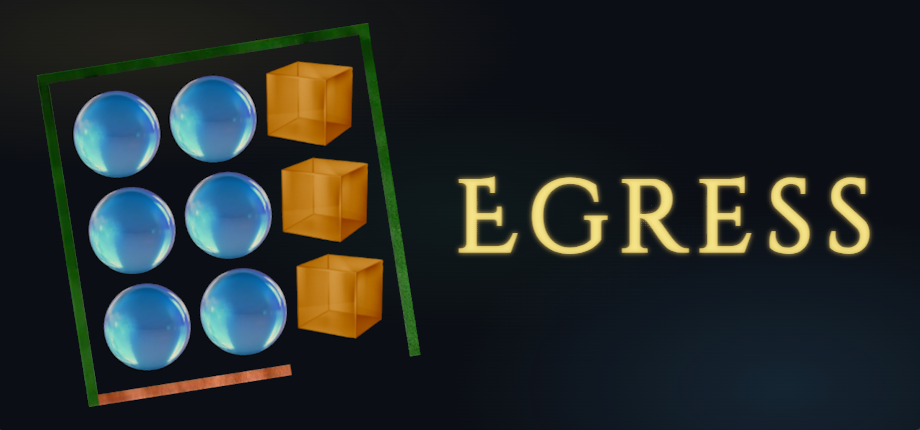
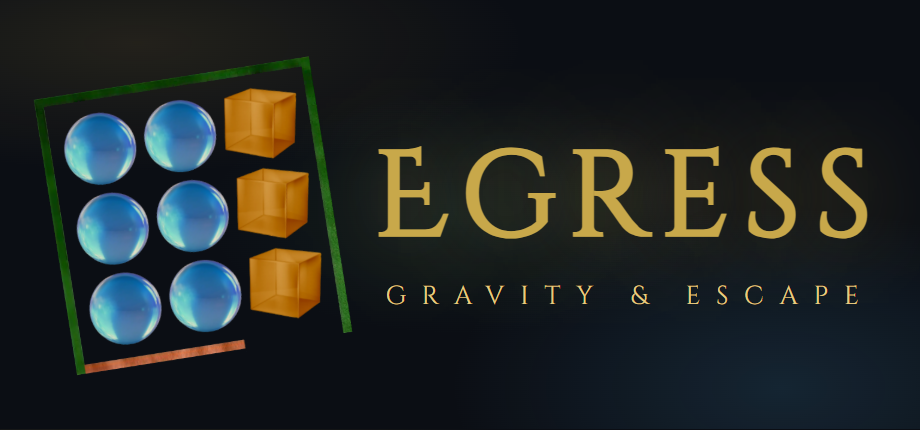
.

diff --git a/src/Egress/Steam/Library Logo.svelte b/src/Egress/Steam/Library Logo.svelte
@@ -2,8 +2,8 @@
 	import Logo from '$lib/images/Egress/Logo.png';
 </script>
 
-<div class="header-capsule">
-	<img src={Logo} alt="Logo" width={100} />
+<div class="main-capsule">
+	<img src={Logo} alt="Logo" width={150} />
 	<div class="text">
 		<div class="title">Egress</div>
 		<div class="subtitle">GRAVITY &amp; ESCAPE</div>
@@ -11,13 +11,13 @@
 </div>
 
 <style>
-	.header-capsule {
+	.main-capsule {
 		display: grid;
 		grid-auto-flow: column;
         place-content: center;
 		gap: 40px;
-        width: 462px;
-        height: 174px;
+        width: 640px;
+        height: 360px;
         box-sizing: border-box;
         /* border: 1px dotted gray; */
 	}
@@ -31,7 +31,7 @@
 	.title {
 		font-family: CD;
 		font-weight: 700;
-		font-size: 60px;
+		font-size: 90px;
 		color: var(--gold);
 		letter-spacing: 0.12em;
 		text-shadow:
@@ -41,8 +41,8 @@
 
 	.subtitle {
 		font-family: Cinzel;
-		font-size: 13px;
-		letter-spacing: 0.6em;
+		font-size: 20px;
+		letter-spacing: 0.55em;
 		color: var(--gold-lt);
 	}
 </style>

diff --git a/src/Egress/Steam/Small Capsule.svelte b/src/Egress/Steam/Small Capsule.svelte
@@ -1,0 +1,55 @@
+<script>
+	import Logo from '$lib/images/Egress/Logo.png';
+</script>
+
+<div class="small-capsule">
+	<div class="row1">
+		<img src={Logo} alt="Logo" width={36} />
+		<div class="title">Egress</div>
+	</div>
+	<div class="subtitle">GRAVITY &amp; ESCAPE</div>
+</div>
+
+<style>
+	.small-capsule {
+		display: grid;
+		place-content: center;
+		place-items: center;
+		/* gap: 10px; */
+		width: 231px;
+		height: 87px;
+		box-sizing: border-box;
+		/* border: 1px dotted gray; */
+	}
+
+	.row1 {
+		display: grid;
+		grid-auto-flow: column;
+		gap: 12px;
+	}
+
+	img {
+		grid-area: 1/1;
+	}
+
+	.title {
+		grid-area: 1/2;
+		font-family: CD;
+		font-weight: 700;
+		font-size: 36px;
+		color: var(--gold);
+		letter-spacing: 0.12em;
+		line-height: 1.25em;
+		text-shadow:
+			0 0 40px #c8a84a80,
+			0 0 80px #c8a84a33;
+	}
+
+	.subtitle {
+		grid-area: 2/1/2 / span 2;
+		font-family: Cinzel;
+		font-size: 11.5px;
+		letter-spacing: 0.5em;
+		color: var(--gold-lt);
+	}
+</style>

diff --git a/src/routes/+page.svelte b/src/routes/+page.svelte
@@ -1,18 +1,10 @@
 <script>
-	import HeaderCapsule from '../Egress/Steam/Header Capsule.svelte';
-	import MainCapsule from '../Egress/Steam/Main Capsule.svelte';
-	import VerticalCapsule from '../Egress/Steam/Vertical Capsule.svelte';
+	import Graphic from '../Egress/Steam/Small Capsule.svelte';
 </script>
 
 <div class="app">
-	{#if false}
-		<HeaderCapsule />
-	{/if}
-	{#if false}
-		<MainCapsule />
-	{/if}
 	{#if true}
-		<VerticalCapsule />
+		<Graphic />
 	{/if}
 </div>
 
@@ -23,9 +15,9 @@
 		place-content: center;
 		place-items: center;
 		gap: 10px;
-		background:
+		/* background:
 			radial-gradient(ellipse 70% 50% at 15% 10%, #c8a84a20 0%, transparent 60%),
 			radial-gradient(ellipse 60% 70% at 85% 90%, #4a9fd428 0%, transparent 60%),
-			radial-gradient(ellipse 40% 40% at 50% 50%, #50d09010 0%, transparent 70%);
+			radial-gradient(ellipse 40% 40% at 50% 50%, #50d09010 0%, transparent 70%); */
 	}
 </style>

diff --git a/src/Egress/Steam/Library Capsule.svelte b/src/Egress/Steam/Library Capsule.svelte
@@ -1,0 +1,41 @@
+<script>
+	import Box from '$lib/images/Egress/Steam/Box Tilted.png';
+</script>
+
+<div class="library-capsule">
+	<div class="title">Egress</div>
+	<img src={Box} alt="Logo" width={220} />
+	<div class="subtitle">GRAVITY &amp; ESCAPE</div>
+</div>
+
+<style>
+	.library-capsule {
+		display: grid;
+		place-content: center;
+		place-items: center;
+		gap: 40px;
+		width: 300px;
+		height: 450px;
+		box-sizing: border-box;
+		/* border: 1px dotted gray; */
+	}
+
+	.title {
+		font-family: CD;
+		font-weight: 700;
+		font-size: 56px;
+		color: var(--gold);
+		letter-spacing: 0.12em;
+		text-shadow:
+			0 0 40px #c8a84a80,
+			0 0 80px #c8a84a33;
+		line-height: 1em;
+	}
+
+	.subtitle {
+		font-family: Cinzel;
+		font-size: 15px;
+		letter-spacing: 0.4em;
+		color: var(--gold-lt);
+	}
+</style>

diff --git a/src/Egress/Steam/Library Header.svelte b/src/Egress/Steam/Library Header.svelte
@@ -1,9 +1,9 @@
 <script>
-	import Logo from '$lib/images/Egress/Logo.png';
+	import Box from '$lib/images/Egress/Steam/Box Tilted.png';
 </script>
 
 <div class="header-capsule">
-	<img src={Logo} alt="Logo" width={100} />
+	<img src={Box} alt="Logo" width={160} />
 	<div class="text">
 		<div class="title">Egress</div>
 		<div class="subtitle">GRAVITY &amp; ESCAPE</div>
@@ -15,9 +15,9 @@
 		display: grid;
 		grid-auto-flow: column;
         place-content: center;
-		gap: 40px;
-        width: 462px;
-        height: 174px;
+		gap: 10px;
+        width: 460px;
+        height: 215px;
         box-sizing: border-box;
         /* border: 1px dotted gray; */
 	}
